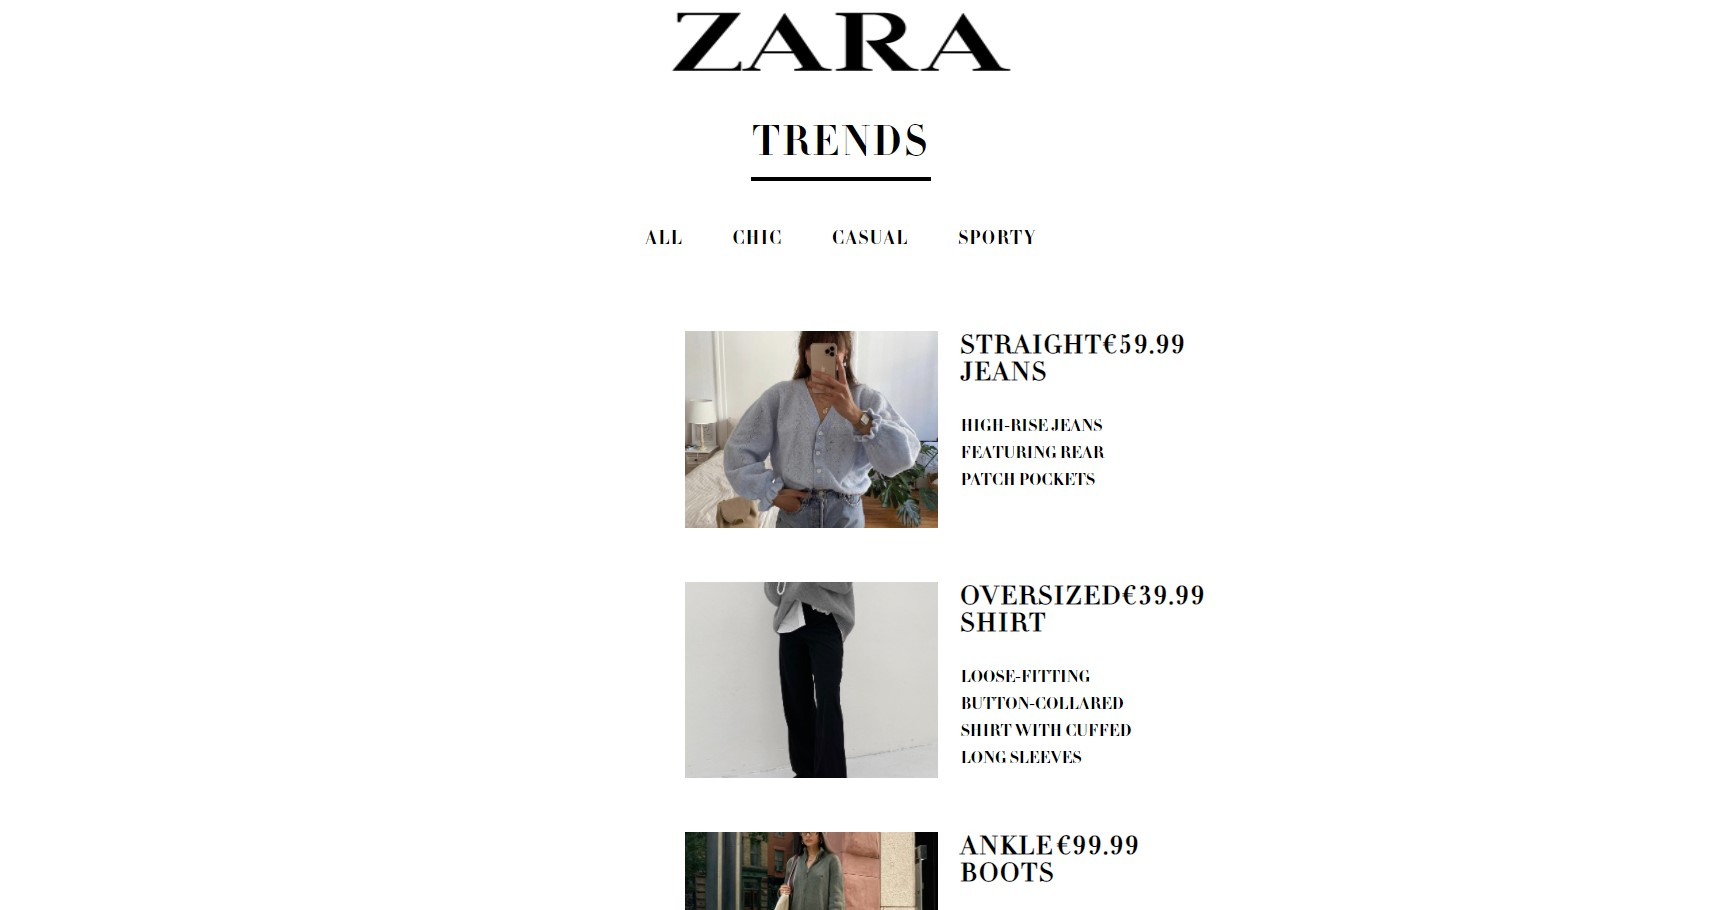
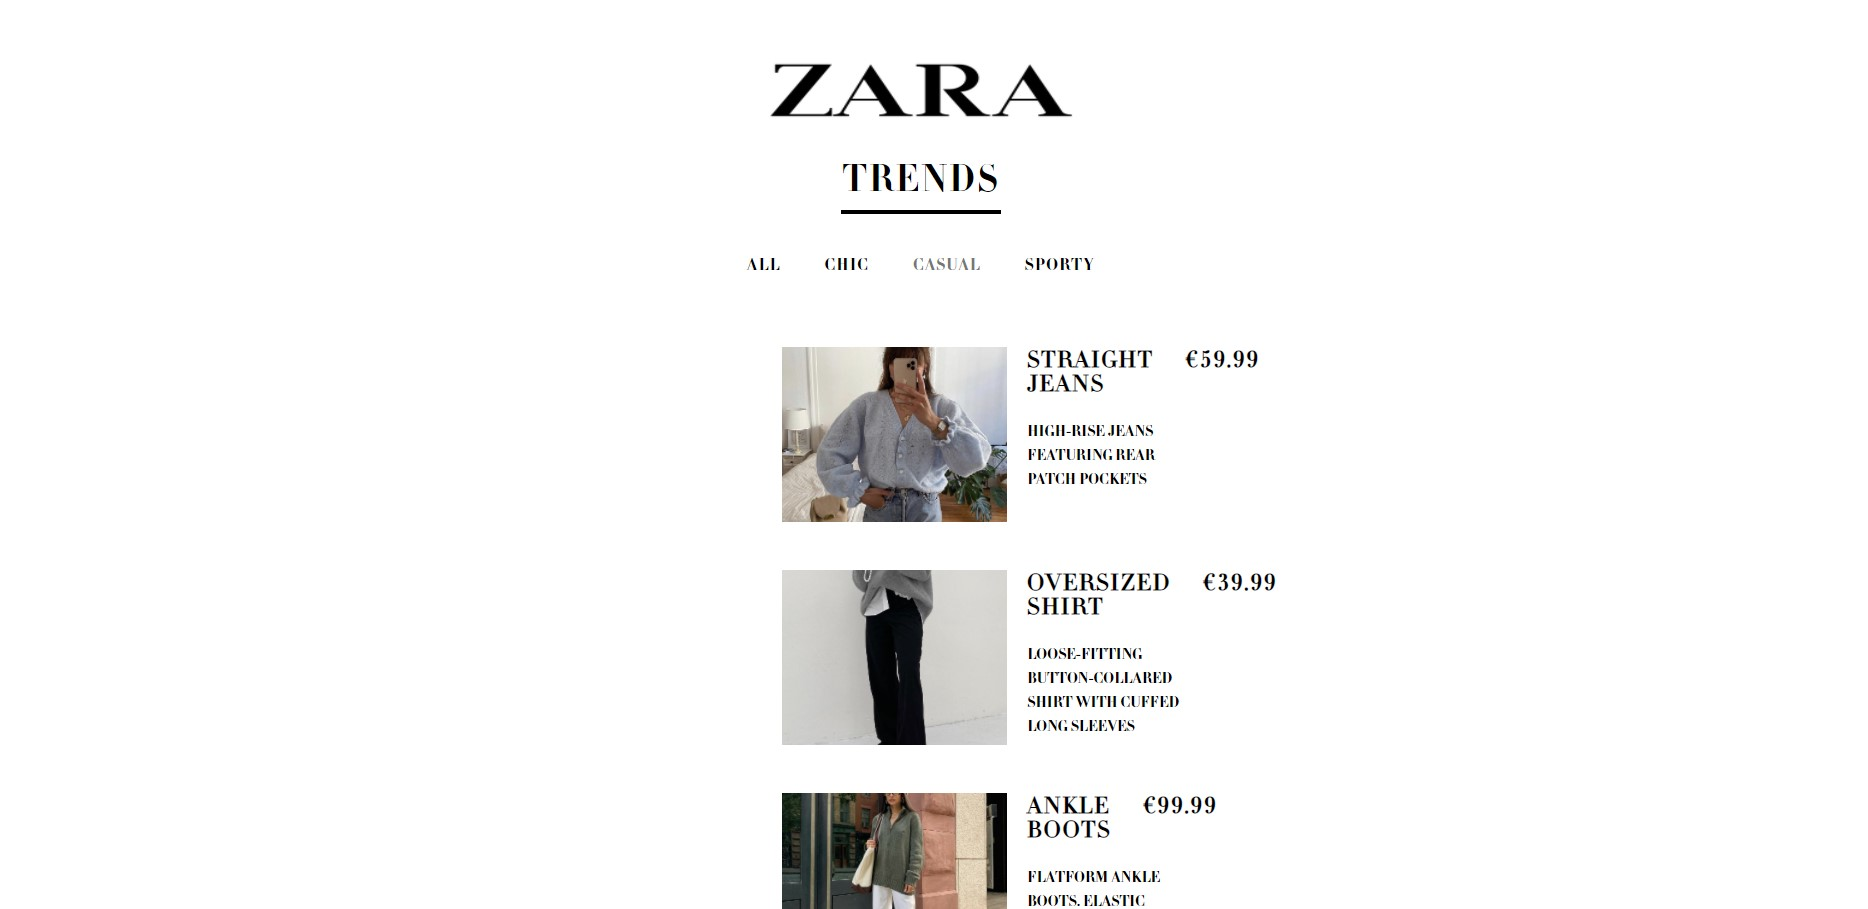
adds zara project

diff --git a/zara-fast-fashion/src/index.css b/zara-fast-fashion/src/index.css
@@ -193,6 +193,7 @@ Catalog
 .catalog__item-price {
   color: var(--clr-black);
   font-family: DidotBold;
+  padding-left: 2rem;
 }
 
 .catalog__item-text {

diff --git a/zara-fast-fashion/README.md b/zara-fast-fashion/README.md
@@ -1,20 +1,20 @@
 ## Menu Component
 
-![alt text](https://firebasestorage.googleapis.com/v0/b/birthday-react-6eca4.appspot.com/o/Clothing%2Fzara_screen_gif.gif?alt=media&token=11d867c4-d5c3-478f-af7f-081ae72caa23)
+![alt text](https://firebasestorage.googleapis.com/v0/b/birthday-react-6eca4.appspot.com/o/Clothing%2Fzara_screen_gif.gif?alt=media&token=3b78dbcf-a9e1-4f95-ba78-a26f6e9b6e2c)
 
 I practiced this project in order to test my knowledge about the information I learned until this stage. Zara's website is one of my favorite minimal websites. That is the reason why I have chosen it to get inspiration from. I practiced the logic that I applied before in which the buttons can render the menu with the category chosen by the user. Data is collected by me. Photos were taken from pinterest and information(price,title) taken from Zara.
 
 #### Category is casual
 
-![alt text](https://firebasestorage.googleapis.com/v0/b/birthday-react-6eca4.appspot.com/o/Clothing%2Fzara_screen_casual.jpg?alt=media&token=ba72ef6e-c42b-419d-97f3-de68e336d445)
+![alt text](https://firebasestorage.googleapis.com/v0/b/birthday-react-6eca4.appspot.com/o/Clothing%2Fzara_screen_casual.jpg?alt=media&token=bcbfd59e-3e62-432d-b4f9-89d685a7ac1a)
 
 #### Category is chic
 
-![alt text](https://firebasestorage.googleapis.com/v0/b/birthday-react-6eca4.appspot.com/o/Clothing%2Fzara_screen_chic.jpg?alt=media&token=d68a860a-ee67-40f8-91b4-ad02a1eb39d8)
+![alt text](https://firebasestorage.googleapis.com/v0/b/birthday-react-6eca4.appspot.com/o/Clothing%2Fzara_screen_chic.jpg?alt=media&token=e280005e-b53c-400c-b072-870d111f4220)
 
 #### Category is sporty
 
-![alt text](https://firebasestorage.googleapis.com/v0/b/birthday-react-6eca4.appspot.com/o/Clothing%2Fzara_screen_sporty.jpg?alt=media&token=e1822945-562d-4773-bd4d-7ac633c59a31)
+![alt text](https://firebasestorage.googleapis.com/v0/b/birthday-react-6eca4.appspot.com/o/Clothing%2Fzara_screen_sporty.jpg?alt=media&token=6e11c87a-3df1-4789-9ff0-b69f98148883)
 
 ### `available at`
 

diff --git a/README.md b/README.md
@@ -74,7 +74,7 @@ Open [http://localhost:3000](http://localhost:3000) to view it in your browser.
 
 ## Zara Website Trends Component
 
-![alt text](https://firebasestorage.googleapis.com/v0/b/birthday-react-6eca4.appspot.com/o/Clothing%2Fzara_screen_gif.gif?alt=media&token=11d867c4-d5c3-478f-af7f-081ae72caa23)
+![alt text](https://firebasestorage.googleapis.com/v0/b/birthday-react-6eca4.appspot.com/o/Clothing%2Fzara_screen_gif.gif?alt=media&token=3b78dbcf-a9e1-4f95-ba78-a26f6e9b6e2c)
 
 I practiced this project in order to test my knowledge about the information I learned until this stage. Zara's website is one of my favorite minimal websites. That is the reason why I have chosen it to get inspiration from. I practiced the logic that I applied before in which the buttons can render the menu with the category chosen by the user. Data is collected by me. Photos were taken from pinterest and information(price,title) taken from Zara.
 
